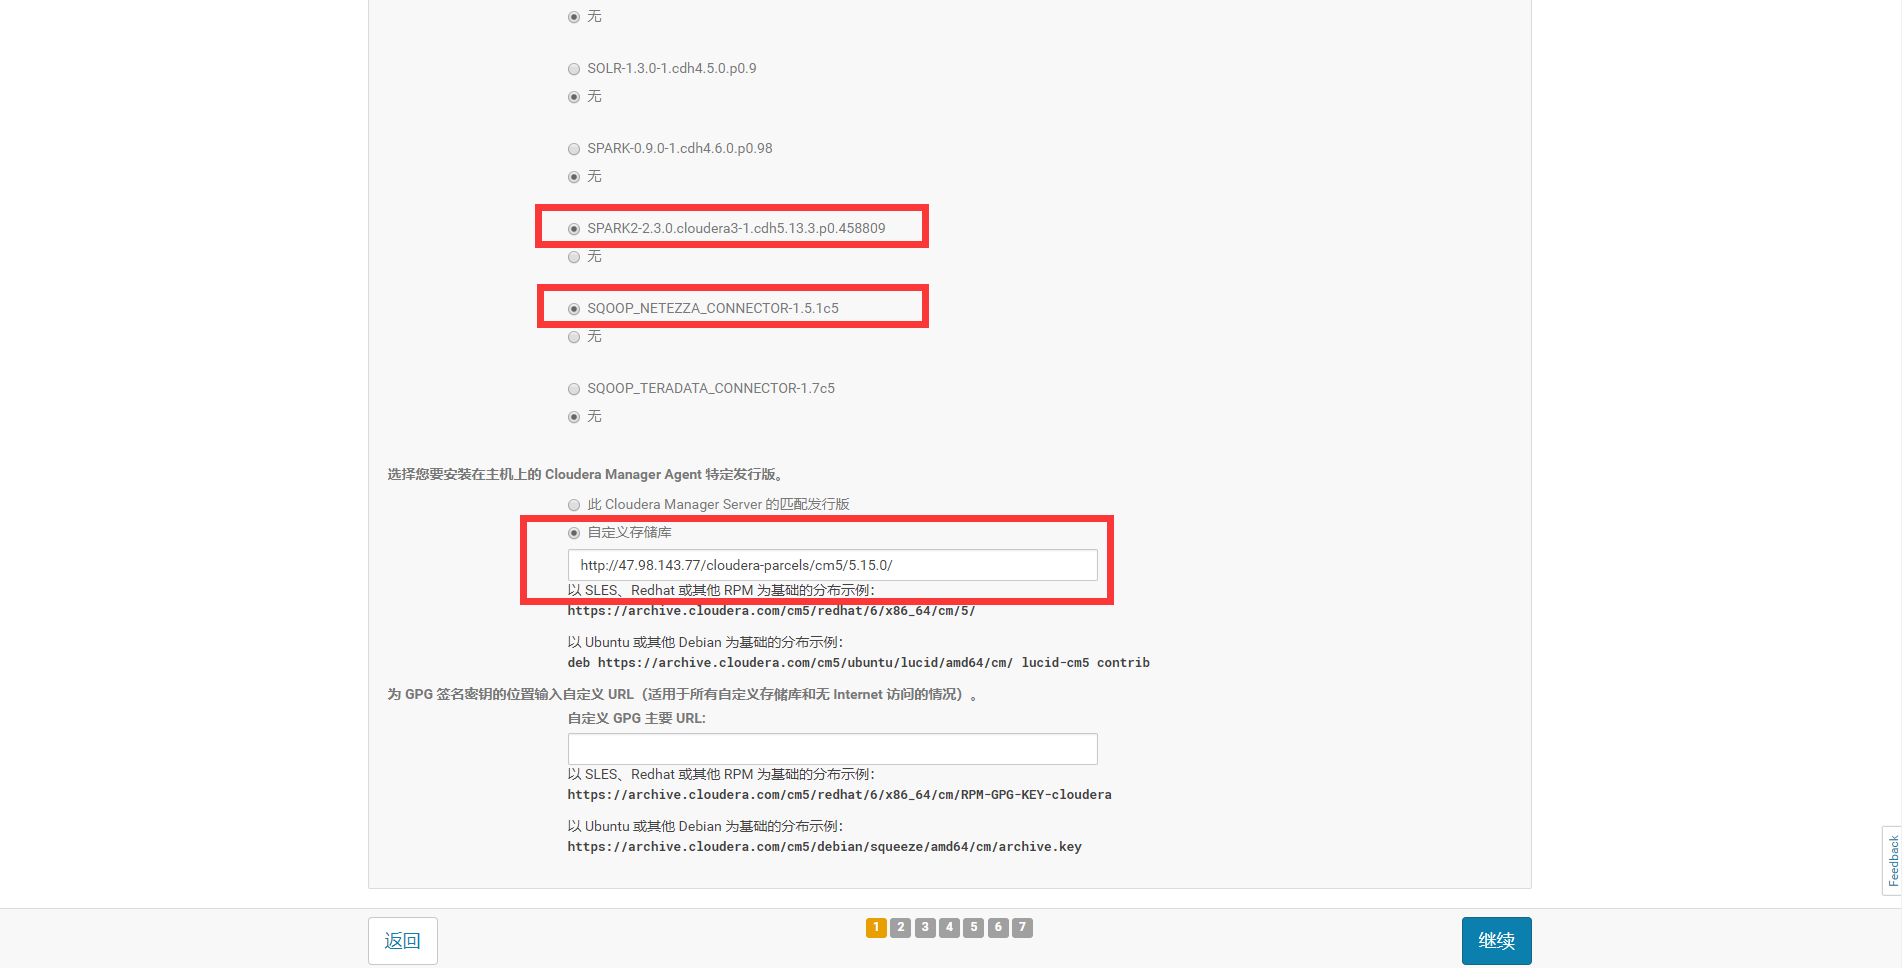
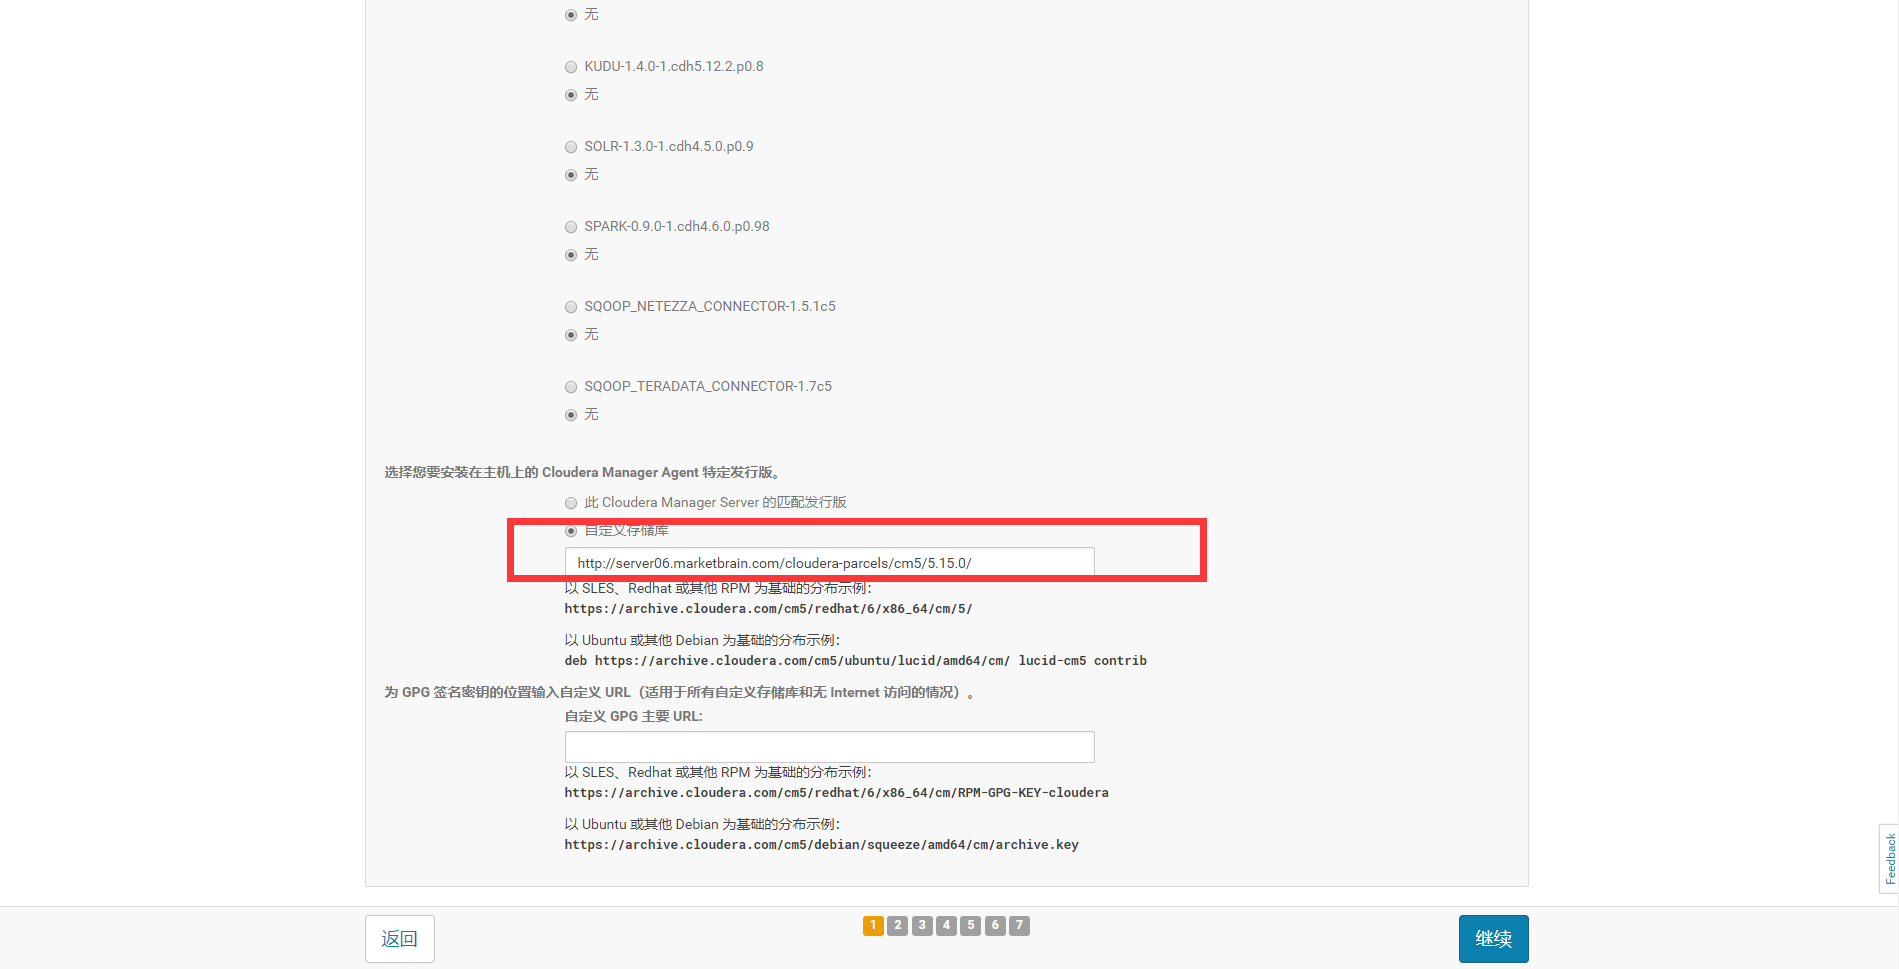
update Cloudera CDH

diff --git a/3.1.大数据/3.1.配置实例/5.Cloudera安装配置实例（CDH5.15.0）/2.6.安装CDH.md b/3.1.大数据/3.1.配置实例/5.Cloudera安装配置实例（CDH5.15.0）/2.6.安装CDH.md
@@ -58,7 +58,7 @@ username: **admin**，password: **admin**。
 边上的“＋”按钮，打开一个新行，输入自己配置的内部Parcel存储库地址：
 ```shell
 # CDH5
-http://server01.marketbrain.com/cloudera-parcels/cdh5/5.15.0/
+http://server06.marketbrain.com/cloudera-parcels/cdh5/5.15.0/
 ```
 **注意：这里使用的是主机名，也可以使用内网IP，这里最好不要使用公网域名与IP来进行下载，要不然非常慢**。
 
@@ -67,9 +67,10 @@ http://server01.marketbrain.com/cloudera-parcels/cdh5/5.15.0/
 ![选择需要的Parcels2](img/28.png)
 
 **选择您要安装在主机上的Cloudera Manager Agent特定发行版**,输入：
-http://47.98.143.77/cloudera-parcels/cm5/5.15.0/
+http://server06.marketbrain.com/cloudera-parcels/cm5/5.15.0/
 
-点击确定，再点击继续。
+点击确定，再点击继续。**注意：这里使用的是主机名，也可以使用内网IP，这里最好不要使用公网域名与IP来进行下载，
+要不然非常慢**。
 
 ### 3.6.JDK安装选项
 注意：不要勾选“**安装 Oracle JavaSE开发工具包(JDK)**”，因为我们已经安装了Java。
